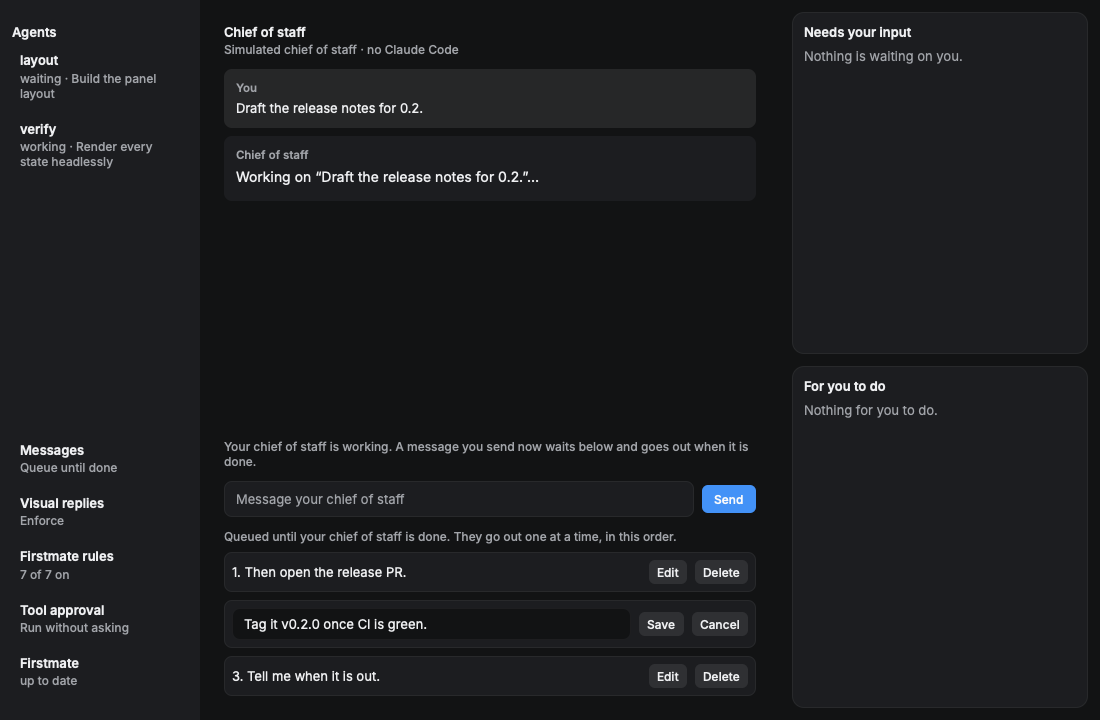
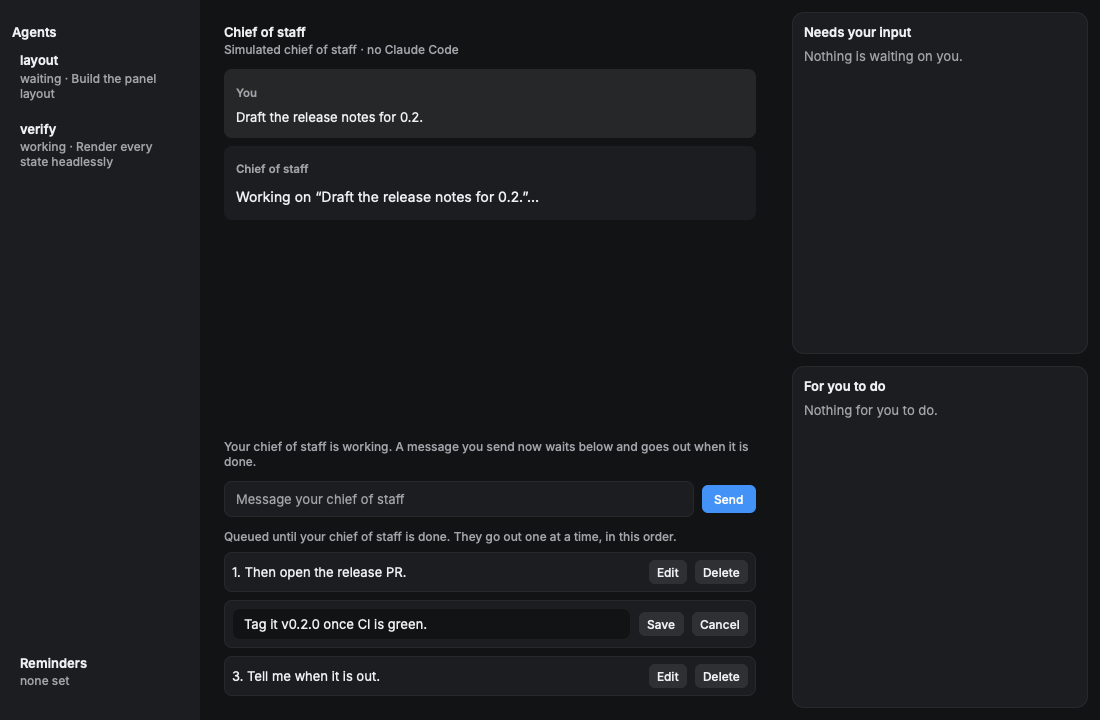
fix(messages): open the Messages setting from Settings after the merge
The Settings menu now holds every setting, so the Messages section lives
there with an All settings button, the test opens it with Cmd+, and the
docs say where to find it and that queued messages are not part of the
kept conversation. Screenshots refreshed for the new layout.

diff --git a/src/main.rs b/src/main.rs
@@ -70,7 +70,7 @@ pub struct App {
     /// The chief of staff is working, as the agent layer last said.
     pub working: bool,
     /// Messages waiting until the chief of staff is done, oldest first. Kept in memory only:
-    /// quitting the app drops them, as it drops the conversation.
+    /// quitting the app drops them, and the kept conversation holds only messages that went out.
     pub queue: Vec<String>,
     /// The queued message being edited, by its place in `queue`, with its field.
     pub editing: Option<(usize, TextEdit)>,
@@ -5950,6 +5950,7 @@ mod tests {
         let dir = scratch("unused");
         let (chief, _finish) = Stub::slow();
         let mut rt = runtime_with(App::new(Box::new(chief), installed_firstmate(), &dir));
+        chord(&mut rt, ',', false);
         assert_eq!(texts_under(&rt, "messages-summary"), ["Send right away"]);
         tap(&mut rt, "messages");
         assert_eq!(rt.state.showing, Showing::Messages);
@@ -5959,8 +5960,9 @@ mod tests {
         );
         tap(&mut rt, "message-mode-queue");
         assert_eq!(*rt.state.delivery.settings(), messages::Delivery::Queue);
+        tap(&mut rt, "messages-all-settings");
         assert_eq!(texts_under(&rt, "messages-summary"), ["Queue until done"]);
-        tap(&mut rt, "messages-close");
+        tap(&mut rt, "settings-close");
         rt.state.draft.text = "Start.".into();
         tap(&mut rt, "send");
         rt.state.draft.text = "Waits.".into();

diff --git a/src/view/messages.rs b/src/view/messages.rs
@@ -54,7 +54,7 @@ pub fn messages_page(s: &App, t: Theme, dark: bool) -> El {
                 "messages-queue-kept",
                 "Queued messages are kept in memory only. While Claude Code is not ready (not \
                  signed in, starting, or after it stopped), they wait and go out once it is. \
-                 Quitting Velvet Hammer drops them, as it drops the conversation.",
+                 Quitting Velvet Hammer drops them; the kept conversation holds only messages that went out.",
                 t,
             ))
             .child(note(

diff --git a/docs/messages.md b/docs/messages.md
@@ -5,7 +5,7 @@ working, so the captain can steer it or add to what it is doing without waiting.
 shows in the conversation at once, in the order it was sent, marked "sent while your chief of
 staff was working". A line over the message field says when the chief of staff is working.
 
-The **Messages** card in the agents column opens the setting. Its other mode, **Queue new
+The **Messages** section of Settings opens the setting. Its other mode, **Queue new
 messages until the chief of staff is done**, is off by default.
 
 ## What Claude Code does with a message sent mid-turn
@@ -58,9 +58,12 @@ a time, in order. Reordering is not offered.
 - While Claude Code is not ready (not signed in, starting, or after it stopped), queued messages
   wait, and the sign-in screen says how many. They go out once it is ready again. If the session
   stops in the middle of a turn, the next queued message starts a new session.
-- Queued messages are kept in memory only, because the app keeps no conversation history yet.
-  Quitting drops them, as it drops the conversation. The setting itself is kept in
-  `messages.json` in the data directory.
+- Queued messages are kept in memory only. The kept conversation (see
+  [The conversation: find and history](conversation.md)) holds only messages that went out, so
+  quitting drops what is still queued; a message shows in the conversation, and is kept, once it
+  is sent. Whether a message went out while the chief of staff was working is not kept either, so
+  a restored message shows without that mark. The setting itself is kept in `messages.json` in
+  the data directory.
 - Each queued message leaves the queue as it is sent, so it cannot go out twice.
 
 ## Messages that are not ready to go
